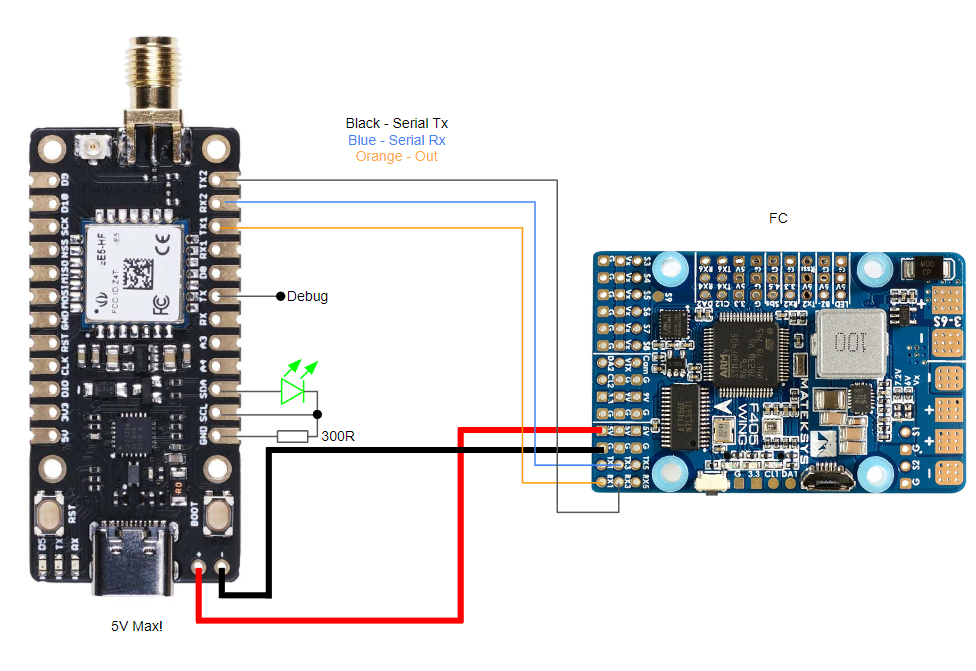
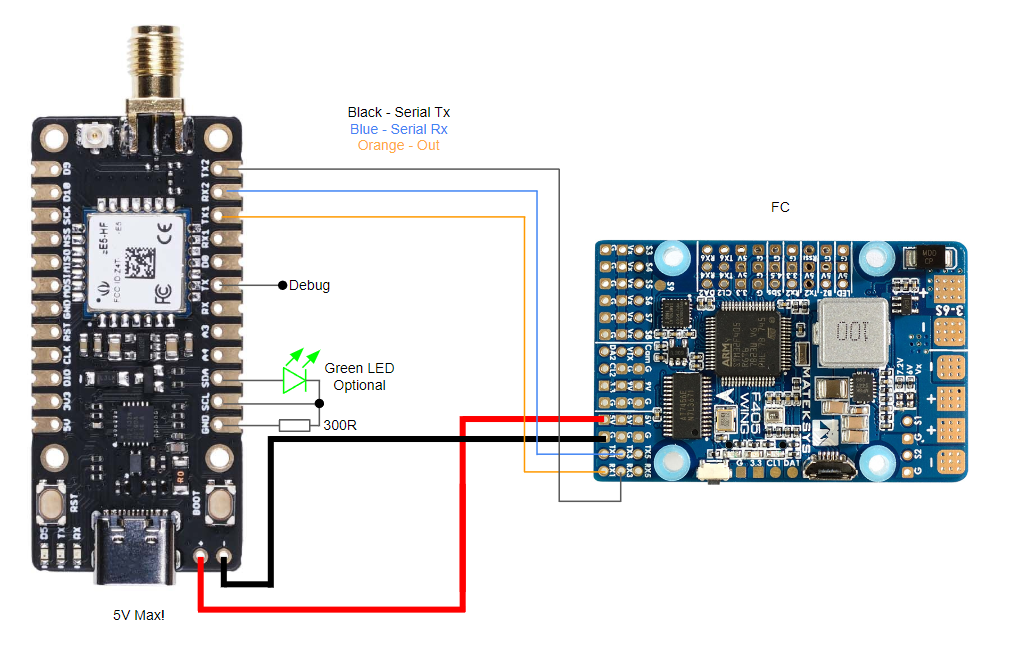
E5 Single LED

Changed region(s): [[0.0307, 0.0301, 1.0, 0.9624], [0.7377, 0.3008, 0.7684, 0.3308]]

diff --git a/docs/SEEEDSTUDIO_WIO_E5.md b/docs/SEEEDSTUDIO_WIO_E5.md
@@ -41,6 +41,7 @@ Connections (name in respect to board print-ons):
 - com/cli: Tx,Rx and on-board USB plug
 - debug: A3
 - led green: SDA (solder a green LED with resistor > 300 Ohm to GND, you can use pad SCL as intermediate post)
+  - Note: The green LED is optional.  It can be enabled by removing #define DEVICE_HAS_SINGLE_LED in the hal.
 - led red: on-board
 - bind button: BOOT button, hold for 4 seconds to initiate bind mode
 
@@ -58,6 +59,7 @@ Connections (name in respect to board print-ons):
 - out: Tx1
 - debug: Tx, and on-board USB plug
 - led green: SDA (solder a green LED with resistor > 300 Ohm to GND, you can use pad SCL as intermediate post)
+  - Note: The green LED is optional.  It can be enabled by removing #define DEVICE_HAS_SINGLE_LED in the hal.
 - led red: on-board
 - bind button: BOOT button, hold for 4 seconds to initiate bind mode
 
@@ -72,7 +74,7 @@ Example Wiring:
 
 ### As Tx Module ###
 
-not recommended
+Not recommended.
 
 ### As Receiver ###
 
@@ -84,8 +86,6 @@ Connections (name in respect to board print-ons):
 - led green: none
 - led red: on-board (solder jumper on the bottom of the board needs to be closed)
 - bind button: BOOT solder pad (solder a button between the BOOT pad and GND or a wire between the two to ground out the BOOT pad, hold for 4 seconds to initiate bind mode)
-
-Note: There is no convenient way to connect a green LED, and you thus won't get the information conveyed by it (like connection). It is possible to work around this but it would require some more sophisticated solder work.
 
 Example Wiring:
 
